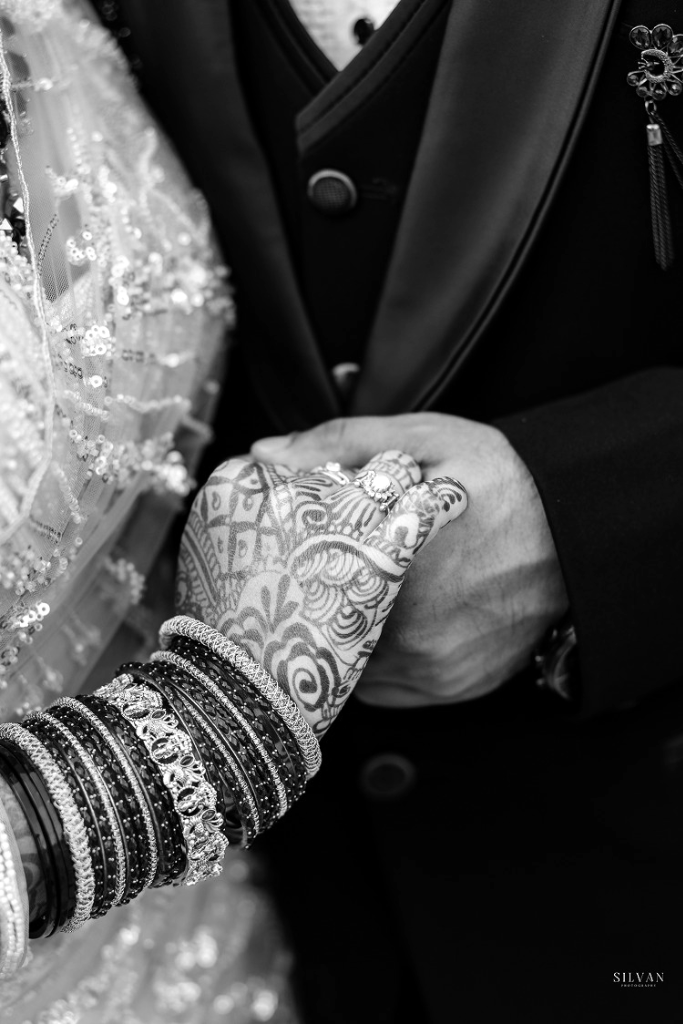
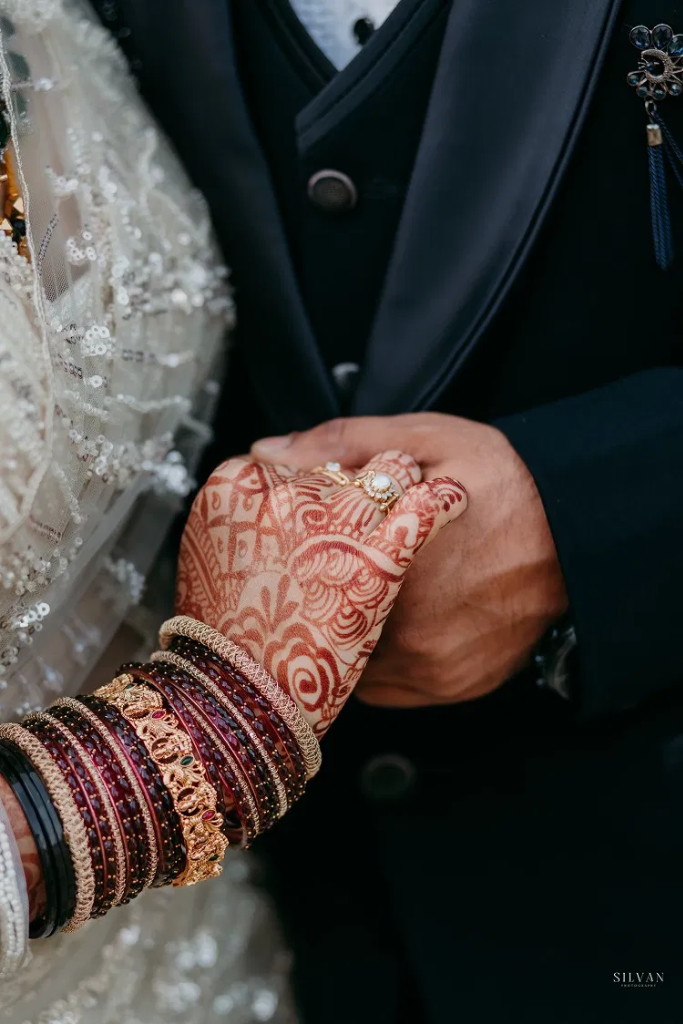
Replace portfolio weddings small photo with color henna hands image

diff --git a/portfolio.html b/portfolio.html
@@ -100,7 +100,7 @@
           <figure class="folio-row__small">
             <img
               src="images/portfolio/weddings-small.png"
-              alt="Couple holding hands with bridal jewelry and henna"
+              alt="Couple holding hands with henna bangles and ring"
             />
           </figure>
           <div class="folio-row__meta">
